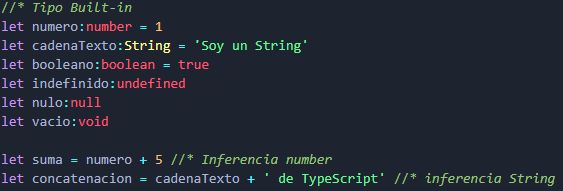
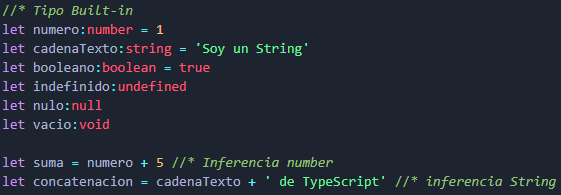
Tipado en funciones

diff --git a/TypeScript/Funciones.html b/TypeScript/Funciones.html
@@ -1,0 +1,59 @@
+<html lang="es">
+<head>
+    <meta charset="UTF-8">
+    <meta http-equiv="X-UA-Compatible" content="IE=edge">
+    <meta name="viewport" content="width=device-width, initial-scale=1.0">
+    <title>Funciones</title>
+    <link rel="stylesheet" href="../styles/normalize.css">
+    <link rel="stylesheet" href="../styles/index.css">
+    <link rel="stylesheet" href="../styles/ts.css">
+    <link rel="stylesheet" href="https://cdnjs.cloudflare.com/ajax/libs/animate.css/4.1.1/animate.min.css"/>
+    <link rel="apple-touch-icon" sizes="180x180" href="../assets/favicon/apple-touch-icon.png">
+    <link rel="icon" type="image/png" sizes="32x32" href="../assets/favicon/favicon-32x32.png">
+    <link rel="icon" type="image/png" sizes="16x16" href="../assets/favicon/favicon-16x16.png">
+    <link rel="manifest" href="../assets/favicon/site.webmanifest">
+    <link rel="preconnect" href="https://fonts.googleapis.com">
+    <link rel="preconnect" href="https://fonts.gstatic.com" crossorigin>
+    <link href="https://fonts.googleapis.com/css2?family=Roboto&display=swap" rel="stylesheet">
+    <link href="https://fonts.googleapis.com/css2?family=Exo+2&display=swap" rel="stylesheet">
+</head>
+<body>
+    <header class="header">
+        <a href="../index.html"><h1 class="titulo1">Mis apuntes de <span class="resaltado">desarrollo web &lt;/&gt;</span></h1></a>
+    </header>
+    <main>
+        <section>
+            <h2 class="titulo2">Funciones</h2>
+            <p>Typescript no realiza ningún cambio importante en el núcleo de funciones de Javascript. Sin embargo, Typescript mejora las funciones con firmas fuertes que podemos utilizar para definir parámetros y tipos de retorno.</p>
+            <p>Algo que se debe tener en cuenta al momento de usar parámetros, es que si no se le asigna el tipo de dato, implicitámente se le asignara un tipo <span class="resaltado">Any</span>, por lo cual no podrá inferir posteriormente que tipo de dato es o son los parámetros.</p>
+            <img src="../assets/images/Funciones1.webp" alt="Ejemplo funciones 1" class="img">
+        <article>
+            <h3 class="titulo3">Usando objetos como parámetros</h3>
+            <p>Puede que se necesiten usar objetos como parámetros en alguna función, sin embargo se debe tener cuidado con el tipado en estos casos.</p>
+            <img src="../assets/images/Funciones2.webp" alt="Ejemplo funciones con objetos como parámetros" class="img">
+            <img src="../assets/images/Funciones3.webp" alt="Ejemplo funciones con objetos como parámetros 2" class="img">
+        </article>
+        <article>
+            <h3 class="titulo3">Funciones con tipo de retorno</h3>
+            <p>Las funciones anteriores retornan por defecto un void, pero usualmente deben retornar algo, y ese algo debe tener un tipo de dato. TypeScript tambien puede inferir el tipo de dato que retorna alguna función.</p>
+            <img src="../assets/images/Funciones4.webp" alt="Ejemplo funciones con tipo de retorno" class="img">
+        </article>
+        <article>
+            <h3 class="titulo3">Tipando Callbacks</h3>
+            <p>Cuando en las funciones se usen <a href="../JavaScript/Callbacks.html" class="link">Callbacks</a> como argumentos, estas tambien se pueden asignar tipos de datos.</p>
+            <img src="../assets/images/Funciones5.webp" alt="Ejemplo funciones tipo callback" class="img">
+        </article>
+        <article>
+            <h3 class="titulo3">Tipando funciones flecha</h3>
+            <p>Hay 2 maneras de tipar <a href="../JavaScript/POO.html#FuncionesFlecha" class="link">funciones flecha:</a></p>
+            <img src="../assets/images/Funciones6.webp" alt="Ejemplo funciones tipo flecha" class="img">
+        </article>
+        <article>
+            <h3 class="titulo3">Casos en los que SI hay inferencia en funciones</h3>
+            <p>En las funciones anónimas, segun el contexto, TypeScript si puede inferir los tipos de datos necesarios de las funciones:</p>
+            <img src="../assets/images/Funciones7.webp" alt="Ejemplo inferencia funciones anónimas" class="img">
+        </article>
+        </section>
+    </main>
+</body>
+</html>

diff --git a/TypeScript/Funciones.ts b/TypeScript/Funciones.ts
@@ -1,0 +1,102 @@
+//* Funcion con Any implícito
+function saludar(name){
+    console.log(`Hola ${name}`)
+}
+
+saludar(5) //* actualmente name es any por lo que no infiere que debe ser un String
+
+//* Funcion con tipo de dato
+function saludar2(name: string){
+    console.log(`Hola ${name}`)
+}
+
+//*saludar2(5) //! como ahora name es String el usar otro tipo de dato en el argumento da error
+
+saludar2('mundo')
+
+//* Funciones con objetos como parámetros
+//! Any implícito
+function saludar3({name, age}){
+    console.log(`hola ${name} tienes ${age} años`)
+}
+
+saludar3({name:3, age:'Diego'}) //* No infiere los tipos de datos asi que podrian ser cualquier dato incorrecto 
+
+//! Tipado incorrecto
+// function saludar4({name: string, age: number}){ //! Aqui se están reenombrando los parámetros debido a la sintaxis propia de JavaScript por lo que luego no encontrará ni a name ni a age
+//     console.log(`hola ${name} tienes ${age} años`)
+// }
+
+saludar3({name:3,age:'Diego'})
+
+//* Tipado correcto:
+//* 1ra forma
+function saludar5({name, age}:{name: string, age: number}){ // * Se tipea todo el objeto
+    console.log(`hola ${name} tienes ${age} años`)
+}
+
+//saludar5({name:23,age:'Diego'}) //! Ahora si genera error de tipo de datos
+saludar5({name:'Diego',age:23}) //* Correcto
+
+//* 2da forma
+function saludar6(persona:{name: string, age: number}){ // * se asigna como parámetro una clase tipando las propiedades
+    const {name, age} = persona //! se DEBEN asignar los parámetros a la clase o saldrá error
+    console.log(`hola ${name} tienes ${age} años`)
+}
+
+//saludar6({name:23,age:'Diego'}) //! error de tipo de datos
+saludar6({name:'Diego',age:23}) //* Correcto
+
+//* Funciones con tipo de retorno
+//* Inferido
+function saludar7({name, age}:{name: string, age: number}){ 
+    let mensaje =`hola ${name} tienes ${age} años`
+    return mensaje //* se infiere que el retorno es de tipo String
+}
+
+saludar7({name:'Diego',age:23})
+
+//* Asignado
+function saludar8({name, age}:{name: string, age: number}) : string{ //* se asigna un String como tipo de retorno
+    let mensaje =`hola ${name} tienes ${age} años`
+    return mensaje 
+}
+
+saludar8({name:'Diego',age:23})
+
+//* Callbacks
+//! tipado incorrecto
+const funcionSaludar = (fn: Function) => { //! Function es el equivalente a Any, y aunque funciona (no hay error) es una forma muy general de llamar a cualquier funcion
+    fn('Diego')
+}
+
+funcionSaludar((name: string) => {
+    return `Hola ${name}`
+})
+
+//* tipado correcto
+const funcionSaludar2 = (fn: (name:string) => string ) => { //* se tipea los parámetros y el retorno del callback
+    fn('Diego')
+}
+
+funcionSaludar2((name: string) => {
+    return `Hola ${name}`
+})
+
+//* arrow functions
+//* 1ra forma
+const sumar = (a: number, b: number) : number => {
+    return a + b
+}
+
+//* 2da forma
+const restar: (a: number, b: number) => number = (a, b) => {
+    return a - b
+}
+
+//* inferencia en funciones
+let lenguajes = ['HTML', 'CSS', 'JavaScript', 'Python'];
+
+lenguajes.forEach(lenguaje => { //* Aqui, gracias al contexto de que lenguajes es un arreglo de Strings, dentro del forEach no es necesario decir que tipo de dato es lenguaje, ya que se infiere que es un String
+    console.log(lenguaje.toUpperCase())
+})

diff --git a/JavaScript/POO.html b/JavaScript/POO.html
@@ -89,7 +89,7 @@
                     <dd>Se declara una variable y se define igual a la palabra function, luego paréntesis () para los parámetros y luego el cuerpo de la función. La variable es el nombre de la función.</dd>
                     <dt>Funciones de tipo Self Invoking:</dt>
                     <dd>Este tipo de funciones no tienen nombre, no se declaran con ninguna variable y solo se invocan una sola vez dentro de si mismas. Se abren paréntesis dentro de los cuales se define de forma similar a las funciones anónimas, luego despues de dichos paréntesis se abren otros paréntesis para los argumentos de la función.</dd>
-                    <dt>Funciones flecha:</dt>
+                    <dt id="FuncionesFlecha">Funciones flecha:</dt>
                     <dd>Se define una constante igual a paréntesis para los parámetros, luego se agregan los simbolos => y posteriormente se define el cuerpo de la función.</dd>
                 </dl>
                 <img src="../assets/images/POOJS2.webp" alt="Sintaxis funciones" class="img">

diff --git a/TypeScript.html b/TypeScript.html
@@ -41,6 +41,12 @@
                     <h2 class="titulots">Tipos de datos</h2>
                 </a>
             </div>
+            <div class="caja1 cajaTS animate__animated animate__fadeIn animate__slow">
+                <a href="TypeScript/Funciones.html">
+                    <img src="https://img.icons8.com/wired/48/3178c6/curly-brackets.png" class="img" alt="icono corchetes"/>
+                    <h2 class="titulots">Funciones</h2>
+                </a>
+            </div>
         </section>
     </main>
 </body>

diff --git a/TypeScript/Tipos_Datos.ts b/TypeScript/Tipos_Datos.ts
@@ -6,7 +6,7 @@ let anyValue:any = 'Hola mundo'
 
 //* Tipo Built-in
 let numero:number = 1
-let cadenaTexto:String = 'Soy un String'
+let cadenaTexto:string = 'Soy un String'
 let booleano:boolean = true
 let indefinido:undefined
 let nulo:null
